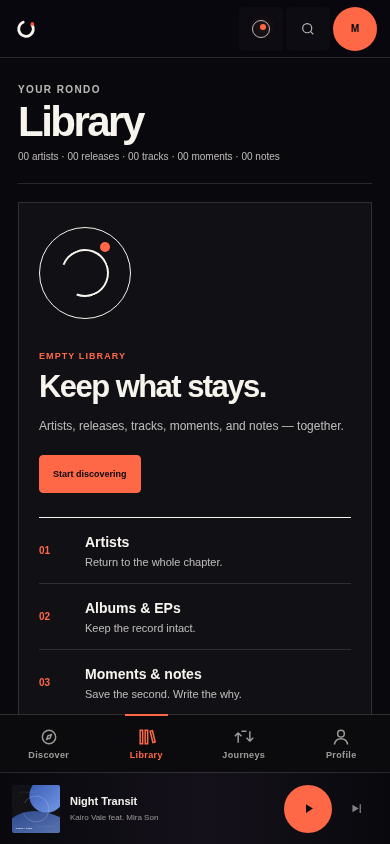
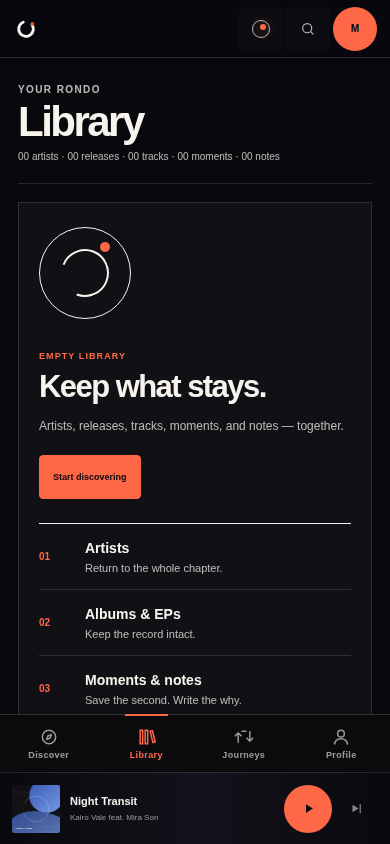
fix: restore mobile Library action target

diff --git a/styles.css b/styles.css
@@ -711,3 +711,9 @@ html[data-theme="light"] .empty-library { background-color: #fbf9f4; }
   .artist-actions .text-action { grid-column: 1 / -1; grid-row: 2; justify-self: start; width: max-content; min-width: 44px; min-height: 44px; }
   .artist-stats .artist-chapter-note { display: none; }
 }
+
+
+/* Final mobile Library action target */
+@media (max-width: 760px) {
+  .empty-library-copy .primary-action { min-height: 44px; }
+}
